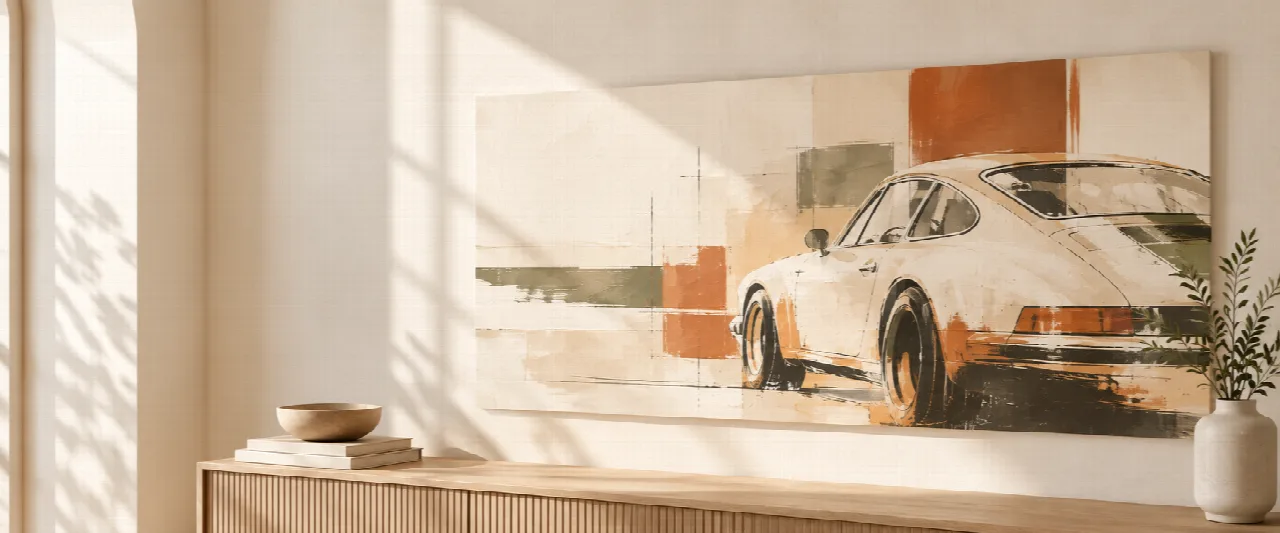
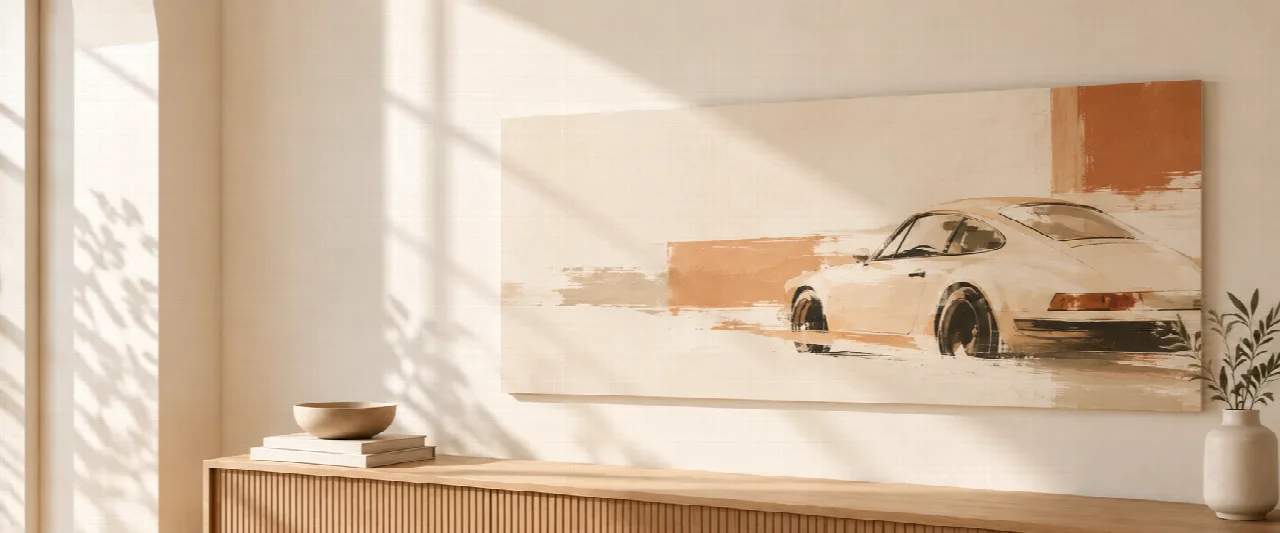
feat: keep hero copy legible at every width
object-cover shrinks the empty wall these photographs are composed around as the viewport narrows, putting the copy over the artwork. The crop now favours the wall and the wash strengthens as the screen gets smaller, until on a phone the photograph reads as texture rather than competing with the headline. Also replaces the steps photograph.

diff --git a/resources/css/storefront.css b/resources/css/storefront.css
@@ -197,3 +197,83 @@
         background: var(--color-rule);
     }
 }
+
+/*
+ * Photographic sections.
+ *
+ * object-cover crops differently at every width, so the empty wall these
+ * photographs are composed around shrinks as the viewport does and the copy
+ * ends up over the artwork. Two things move together to prevent it: the wash
+ * grows stronger and reaches further right as the screen narrows, and the crop
+ * shifts to keep more wall in frame. On a phone the photograph becomes a faint
+ * texture rather than a competing image.
+ */
+@layer components {
+    .photo-section-image {
+        position: absolute;
+        inset: 0;
+        z-index: -10;
+        width: 100%;
+        height: 100%;
+        object-fit: cover;
+        /* Narrow: favour the wall. The artwork is still partly in frame. */
+        object-position: 72% center;
+    }
+
+    .photo-section-wash {
+        position: absolute;
+        inset: 0;
+        z-index: -10;
+        /* Phone: near-opaque, so the photograph reads as texture and the copy
+           never has to compete with it. */
+        background: linear-gradient(
+            100deg,
+            color-mix(in srgb, var(--color-paper) 96%, transparent) 0%,
+            color-mix(in srgb, var(--color-paper) 93%, transparent) 70%,
+            color-mix(in srgb, var(--color-paper) 76%, transparent) 100%
+        );
+    }
+
+    @media (min-width: 640px) {
+        .photo-section-image {
+            object-position: 80% center;
+        }
+
+        .photo-section-wash {
+            background: linear-gradient(
+                100deg,
+                color-mix(in srgb, var(--color-paper) 95%, transparent) 0%,
+                color-mix(in srgb, var(--color-paper) 90%, transparent) 51%,
+                color-mix(in srgb, var(--color-paper) 45%, transparent) 86%,
+                transparent 100%
+            );
+        }
+    }
+
+    @media (min-width: 1024px) {
+        .photo-section-image {
+            object-position: right center;
+        }
+
+        .photo-section-wash {
+            background: linear-gradient(
+                95deg,
+                color-mix(in srgb, var(--color-paper) 94%, transparent) 0%,
+                color-mix(in srgb, var(--color-paper) 80%, transparent) 39%,
+                color-mix(in srgb, var(--color-paper) 35%, transparent) 64%,
+                transparent 80%
+            );
+        }
+    }
+
+    @media (min-width: 1400px) {
+        .photo-section-wash {
+            background: linear-gradient(
+                95deg,
+                color-mix(in srgb, var(--color-paper) 93%, transparent) 0%,
+                color-mix(in srgb, var(--color-paper) 73%, transparent) 33%,
+                transparent 60%
+            );
+        }
+    }
+}

diff --git a/resources/views/storefront/home.blade.php b/resources/views/storefront/home.blade.php
@@ -11,14 +11,14 @@
              sizes="100vw"
              alt="" width="1672" height="941"
              fetchpriority="high" decoding="sync"
-             class="absolute inset-0 -z-10 h-full w-full object-cover object-right">
+             class="photo-section-image">
 
         {{-- A wash from the left keeps the copy legible whatever the photograph
              is doing behind it, and fades out before reaching the artwork. --}}
-        <div class="absolute inset-0 -z-10 bg-gradient-to-r from-[color-mix(in_srgb,var(--color-paper)_94%,transparent)] from-5% via-[color-mix(in_srgb,var(--color-paper)_70%,transparent)] via-40% to-transparent to-75%"></div>
+        <div class="photo-section-wash"></div>
 
         <div class="mx-auto max-w-[1400px] px-4 py-20 sm:px-8 lg:py-32">
-            <div class="max-w-md">
+            <div class="max-w-md lg:max-w-lg">
                 <p class="label">Art for modern living</p>
 
                 <h1 class="mt-5 text-balance text-5xl leading-[1.05] sm:text-6xl">
@@ -117,13 +117,13 @@
                      /images/steps-1280.webp 1280w,
                      /images/steps-1920.webp 1920w"
              sizes="100vw"
-             alt="" width="1942" height="809" loading="lazy" decoding="async"
-             class="absolute inset-0 -z-10 h-full w-full object-cover object-right">
+             alt="" width="1944" height="809" loading="lazy" decoding="async"
+             class="photo-section-image">
 
-        <div class="absolute inset-0 -z-10 bg-gradient-to-r from-[color-mix(in_srgb,var(--color-paper)_95%,transparent)] from-5% via-[color-mix(in_srgb,var(--color-paper)_72%,transparent)] via-45% to-transparent to-80%"></div>
+        <div class="photo-section-wash"></div>
 
         <div class="mx-auto max-w-[1400px] px-4 py-20 sm:px-8 lg:py-28">
-            <div class="max-w-xl">
+            <div class="max-w-lg lg:max-w-xl">
                 <p class="label">How it works</p>
                 <h2 id="how" class="mt-3 text-balance text-4xl sm:text-5xl">
                     Get your art in 3 simple steps.
